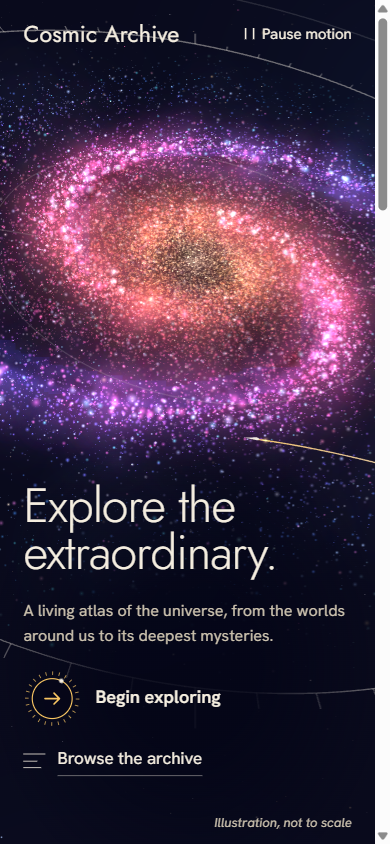
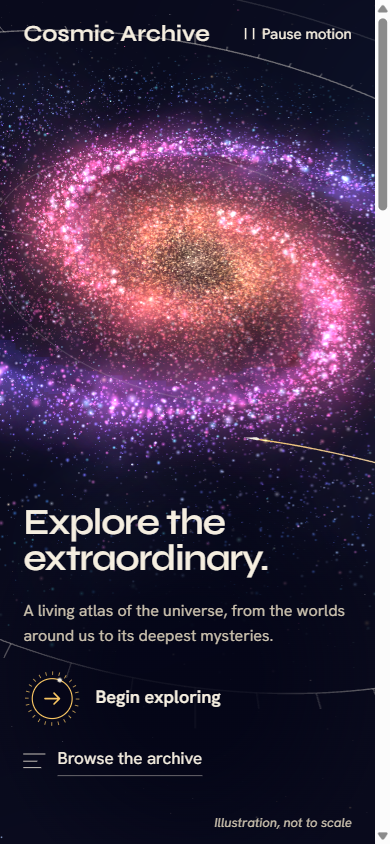
📝 docs: Lock the approved look and hand the build to Opus
- Make Syne the headline face in the prototype and re-shoot the stills
- Record the owner's approval and decisions D-026 to D-028
- Split the scene session in two and give the whole build to Opus
- Rewrite the Opus prompt as a standalone handover

Changed region(s): [[0.0615, 0.5545, 0.7077, 0.7085], [0.0615, 0.0308, 0.5538, 0.0616]]

diff --git a/prototype/look.html b/prototype/look.html
@@ -8,12 +8,12 @@
   Throwaway look-and-feel check for the Living Atlas identity (docs/DESIGN_SPEC.md).
   Not production code: plain three from a CDN, fonts from Google Fonts, 1px GL lines.
   URL switches:  ?stage=0|1|2  fix the view (hero, chart, zoom out)   ?t=12  fix the time
-                 ?font=jost|syne|bricolage  try a headline face (jost is the default)
+                 ?font=syne|jost|bricolage  try a headline face (syne is the owner's pick and the default)
 -->
 <link rel="preconnect" href="https://fonts.googleapis.com">
 <link rel="preconnect" href="https://fonts.gstatic.com" crossorigin>
 <link href="https://fonts.googleapis.com/css2?family=Bricolage+Grotesque:opsz,wght@12..96,400..600&family=Hanken+Grotesk:ital,wght@0,400;0,500;0,600;1,400&family=Jost:wght@300;400;500&family=Syne:wght@500;600&display=swap" rel="stylesheet">
-<script>document.documentElement.dataset.font = new URLSearchParams(location.search).get('font') || 'jost';</script>
+<script>document.documentElement.dataset.font = new URLSearchParams(location.search).get('font') || 'syne';</script>
 <script type="importmap">{"imports":{"three":"https://cdn.jsdelivr.net/npm/three@0.187.0/build/three.module.js"}}</script>
 <style>
   :root {
@@ -21,14 +21,14 @@
     --ink: #f4eee2;
     --ink-2: #cdc6b8;
     --beacon: #f5c56b;
-    /* Display: a light geometric sans. Its round letters are drawn with the same compass as the chart's rings. */
-    --display: "Jost", "Century Gothic", system-ui, sans-serif;
-    --display-w: 300; --display-track: -0.018em; --h1: clamp(3rem, 7vw, 6.75rem); --mark-w: 400;
+    /* Display: Syne, a wide sans with some character (the owner's pick). The others are kept only for comparison. */
+    --display: "Syne", system-ui, sans-serif;
+    --display-w: 600; --display-track: -0.03em; --h1: clamp(2.3rem, 6vw, 5.75rem); --h2: clamp(1.75rem, 3.5vw, 3.1rem); --mark-w: 600;
     --text: "Hanken Grotesk", system-ui, sans-serif;
     --gutter: clamp(20px, 6vw, 96px);
   }
-  [data-font="syne"] { --display: "Syne", system-ui, sans-serif; --display-w: 600; --display-track: -0.03em; --h1: clamp(2.3rem, 6vw, 5.75rem); --mark-w: 600; }
-  [data-font="bricolage"] { --display: "Bricolage Grotesque", system-ui, sans-serif; --display-w: 500; --display-track: -0.03em; --h1: clamp(2.7rem, 6.6vw, 6.25rem); --mark-w: 500; }
+  [data-font="jost"] { --display: "Jost", "Century Gothic", system-ui, sans-serif; --display-w: 300; --display-track: -0.018em; --h1: clamp(3rem, 7vw, 6.75rem); --h2: clamp(2rem, 4.2vw, 3.75rem); --mark-w: 400; }
+  [data-font="bricolage"] { --display: "Bricolage Grotesque", system-ui, sans-serif; --display-w: 500; --display-track: -0.03em; --h1: clamp(2.7rem, 6.6vw, 6.25rem); --h2: clamp(2rem, 4vw, 3.5rem); --mark-w: 500; }
   @supports (color: oklch(0 0 0)) {
     :root {
       --space: oklch(0.13 0.04 275);
@@ -72,7 +72,7 @@
   }
   h1, h2 { font-family: var(--display); font-weight: var(--display-w); letter-spacing: var(--display-track); margin: 0; text-wrap: balance; }
   h1 { font-size: var(--h1); line-height: 0.98; }
-  h2 { font-size: clamp(2rem, 4.2vw, 3.75rem); line-height: 1.05; }
+  h2 { font-size: var(--h2); line-height: 1.08; }
   .copy p { margin: 22px 0 0; max-width: 31rem; color: var(--ink-2); font-size: clamp(1rem, 1.25vw, 1.2rem); }
 
   .s0 { bottom: clamp(56px, 11vh, 120px); max-width: 44rem; }

diff --git a/OPUS_NEXT_WEEK_PROMPT.md b/OPUS_NEXT_WEEK_PROMPT.md
@@ -1,12 +1,12 @@
 # Cosmic Archive: prompt for the next Opus session
 
-**Last updated:** 2026-11-11, after the second look round in session F1 (sans headline, redrawn hero actions, bigger and fuller galaxy; waiting for the owner to approve the look and pick the headline face). Fable keeps this current after every commit. If you are reading this, Fable's access has ended or the owner chose to hand over; start from "Your session" below.
+**Last updated:** 2026-11-11, at the end of Fable's work. The plan and the look are finished and approved by the owner. No app code exists yet. Keep this file current: after every commit, update "What exists" and rewrite "Your session" for the next roadmap item.
 
 You are Claude Opus 5.5, continuing Cosmic Archive alone. You have no memory of earlier sessions. Everything you need is in this file and the docs it names.
 
 ## What this is
 
-A living atlas of the universe: a Next.js site with real-time WebGL scenes behind server-rendered science pages. The identity is "cosmos plus ink": luminous stylised scenery with a map-maker's hairline linework over it. Fable (a stronger model) re-planned the project with the owner on 2026-11-11 and is building the hard core. You build on it without redesigning it.
+A living atlas of the universe: a Next.js site with real-time WebGL scenes behind server-rendered science pages. The identity is "cosmos plus ink": luminous stylised scenery with a map-maker's hairline linework over it. Fable (a stronger model) re-planned the project with the owner, designed the look with them, and stopped there at the owner's request. You build the app. You do not redesign it.
 
 ## What exists
 
@@ -14,72 +14,75 @@ A living atlas of the universe: a Next.js site with real-time WebGL scenes behin
 |---|---|
 | `15e3478` | Snapshot of the original ChatGPT planning docs (history only; superseded) |
 | `825ef56` | F0 re-plan: rewritten docs in `docs/`, `CLAUDE.md`, `README.md`, this file |
-| `8dae442` | F1: `prototype/look.html` and six stills in `prototype/shots/` |
-| latest (`git log -1`) | F1 second round: owner's notes applied to the prototype; `prototype/fonts.html` compares headline faces |
+| `8dae442` | F1: first look prototype |
+| `0c6ac42` | F1 second round from the owner's notes: sans headline, redrawn hero actions, bigger and fuller galaxy |
+| latest (`git log -1`) | Owner approved the look and picked Syne; stills re-shot; docs and this file brought up to date |
 
-`prototype/look.html` is a single file (plain three from a CDN) showing the three stages of the homepage scene: hero (`?stage=0`), chart (`?stage=1`), zoomed-out cosmic web (`?stage=2`). `?t=12` fixes the time. Without switches, scrolling drives the zoom. Open it by double-clicking; it needs internet for three and the fonts.
+`prototype/look.html` is the approved look. It is one file (plain three from a CDN) showing the three stages of the homepage scene: hero (`?stage=0`), chart (`?stage=1`), zoomed-out cosmic web (`?stage=2`). `?t=12` fixes the time. Without switches, scrolling drives the zoom. It needs internet for three and the fonts. The six stills in `prototype/shots/` (`desktop-stage0..2.png`, `phone-stage0..2.png`) are the visual bar. `prototype/fonts.html` and `font-options.png` are a record of the font choice; ignore them.
 
-Not built yet: the app scaffold, the scene system, the atlas in the app, any page.
-
-**Check `docs/PHASE_CHECKLIST.md` for "Owner approved the look".** If it is not ticked, ask the owner before building anything; the look is theirs to approve.
+Not built: the app scaffold, the scene system, the atlas in the app, any page. Nothing has been pushed or deployed.
 
 ## Read first, in this order
 
 1. `CLAUDE.md`
 2. `docs/PHASE_CHECKLIST.md`
-3. `docs/DESIGN_SPEC.md` (section 10 lists what the prototype settled and the shortcuts production must replace)
+3. `docs/DESIGN_SPEC.md` (section 2 bans, section 7 homepage, section 10 what the prototype settled and what production must replace, section 11 screenshot checklist)
 4. `docs/ARCHITECTURE.md`
 5. `docs/PROJECT_BLUEPRINT.md`
 6. `docs/DECISIONS.md` (skim; read fully before changing anything that looks deliberate)
-7. `prototype/look.html` and the stills in `prototype/shots/`. Look at the stills; they are the visual bar.
+7. `prototype/look.html` and the six stills. Open the stills and look at them before writing any UI.
 
 ## Rules you must not change
 
-1. **The visual language.** Cosmos plus ink, the tiny vessel and its trail, line style as evidence, a sans display face (Jost unless `DECISIONS.md` D-026 records that the owner picked Syne) with Hanken Grotesk, no serif, one UI accent. The bans in `DESIGN_SPEC.md` section 2 are absolute. Match the prototype's palette, type and line weights.
-2. **The architecture boundaries.** Only `src/scene/` imports three. Pages use `<SceneSlot>`. One persistent canvas. Content holds facts; components hold layout.
-3. **The budgets** in `ARCHITECTURE.md` section 3: tiers, pixel budgets, particle counts, bundle sizes, the governor thresholds.
-4. **The science process.** No fact from memory. Fetch the source, wrap the claim, record the checked date. Own illustrations only; link to real observations, never embed them.
-5. **Scope.** The v1 table in the blueprint. One session from the roadmap, then stop and report.
+1. **The visual language.** Cosmos plus ink, the tiny vessel and its trail, line style as evidence, Syne for display with Hanken Grotesk for text, no serif, one UI accent (`--beacon`). The bans in `DESIGN_SPEC.md` section 2 are absolute. Match the prototype's palette, type, line weights and compositions.
+2. **The galaxy is big and full.** The owner asked for this directly. In the hero it overflows the frame. Do not pull the camera back, thin the layers or simplify the scene to save effort; port the prototype's generation code and camera keys as they are (`ARCHITECTURE.md` section 4).
+3. **The architecture boundaries.** Only `src/scene/` imports three. Pages use `<SceneSlot>`. One persistent canvas. Content holds facts; components hold layout.
+4. **The budgets** in `ARCHITECTURE.md` section 3: tiers, pixel budgets, particle counts, bundle sizes, the governor thresholds.
+5. **The science process.** No fact from memory. Fetch the source, wrap the claim, record the checked date. Own illustrations only; link to real observations, never embed them.
+6. **Scope.** The v1 table in the blueprint. One session from the roadmap, then stop and report.
 
 If one of these seems wrong, do not work around it. Say so in your report and leave it for the owner.
 
-## Your session: F2, the scaffold (only after the look is approved)
+## Your session: F2, the scaffold
 
 **Scope**
 
-- Create the Next.js 16 app in this folder (App Router, TypeScript strict, `src/` directory, `@/*` alias, npm, ESLint flat config, no Tailwind). Check the current Next.js docs through context7 first; do not rely on remembered flags. Keep the existing files (`docs/`, `prototype/`, `CLAUDE.md`, `README.md`, this file).
+- Create the Next.js 16 app in this folder (App Router, TypeScript strict, `src/` directory, `@/*` alias, npm, ESLint flat config, no Tailwind). Check the current Next.js docs through context7 first; do not rely on remembered flags. Keep the existing files (`docs/`, `prototype/`, `CLAUDE.md`, `README.md`, this file). If the generator refuses a non-empty folder, generate into a temporary folder and move the files in.
 - Folder layout exactly as `ARCHITECTURE.md` section 1. Create `src/scene/` with only a README stub saying what goes there; do not install three yet.
-- `src/styles/tokens.css` with the tokens from `DESIGN_SPEC.md` sections 3 and 4, values copied from the `:root` block of `prototype/look.html`.
-- Fonts through `next/font/google`: the display face from D-026 (Jost 300 and 400, or Syne 600 if the owner picked it) and Hanken Grotesk (400, 500, 600, and 400 italic).
-- The two hero actions exactly as in the prototype (`.go` and `.index` in `prototype/look.html`; described in `DESIGN_SPEC.md` section 7.2).
-- Root layout with the header (wordmark, nav showing only routes that exist, a Pause motion button that toggles a `data-motion` attribute on `<html>` and persists it) and a minimal footer. Copy the header's look from the prototype.
-- `/` renders the hero copy over a plain `--space` background (headline, supporting line, the two actions). No scene yet. "Begin exploring" and "Browse the archive" must not be dead links: render them only when their routes exist, or point both at an `/about` stub that says the atlas is being built.
-- Scripts: `check` (`tsc --noEmit && eslint .`), `shots` (a Playwright script that starts the built app, captures `/` at 1440x900, 390x844 and 1440x900 with reduced motion into `screenshots/`), `posters` (stub that exits 0 with a message for now).
-- Update `CLAUDE.md`: replace `Verify: none` with `Verify: npm run check` and add `Verify-full: npm run build && npm run shots`. Update the README's "Running it" section.
+- `src/styles/tokens.css`: colour tokens copied from the `@supports` block of `prototype/look.html` (OKLCH), plus the type scale, spacing and motion durations from `DESIGN_SPEC.md` sections 3, 4 and 6.
+- Fonts through `next/font/google`: Syne (weight 600) and Hanken Grotesk (400, 500, 600, and 400 italic).
+- Root layout with the header (wordmark, nav showing only routes that exist, a Pause motion button that sets `data-motion="paused"` or `"on"` on `<html>` and persists it in `localStorage`; reduced motion defaults it to paused) and a minimal footer. Copy the header's look from the prototype.
+- `/` renders the hero copy over a plain `--space` background: headline, supporting line, and the two actions built exactly as `.go` and `.index` in the prototype (the ticked-ring button with its circling dot, and the index link; `DESIGN_SPEC.md` section 7.2). No scene yet. The actions must not be dead links: point both at an `/about` stub (one paragraph saying the atlas is being built) until their routes exist.
+- Scripts: `check` (`tsc --noEmit && eslint .`), `shots` (a Playwright script that starts the built app and captures `/` at 1440x900, 390x844, and 1440x900 with reduced motion, into `screenshots/`), `posters` (a stub that prints a message and exits 0).
+- Update `CLAUDE.md`: replace `Verify: none` with `Verify: npm run check`, add `Verify-full: npm run build && npm run shots`, and delete the sentence about there being no scaffold. Update the README's "Running it" section.
 
 **Acceptance**
 
 - `npm run check` passes. `npm run build` passes. `npm run shots` writes three screenshots.
 - First-load JS for `/` is under 130 KB gzip (read it from the build output and report the number).
-- The header and hero copy match the prototype's type, colour and spacing at both widths.
+- The header, hero copy and both actions match `prototype/shots/desktop-stage0.png` and `phone-stage0.png` in type, colour, size and position. The headline does not overflow at 390 px.
+- With reduced motion, the dot on the ring button does not move. Hovering the ring button fills the ring gold; both actions show a visible focus ring from the keyboard.
 - No dependency beyond next, react, react-dom, typescript, eslint and its Next config, the type packages, and playwright as a dev dependency.
 
-**Verify:** run the three commands; look at the three screenshots beside `prototype/shots/desktop-stage0.png` and `phone-stage0.png`; run the self-review below.
+**Verify:** run the three commands; open the three screenshots beside the two prototype stills and compare; run the self-review below.
 
-**Stop point:** commit (gitmoji style, no push), tick F2 in the checklist, report. Do not start the scene system.
+**Stop point:** commit (gitmoji style, no push), tick F2 in the checklist, rewrite "Your session" in this file for F3a, report. Do not start the scene system.
 
-## Later sessions (one each; details in `docs/PHASED_ROADMAP.md`)
+## Later sessions (one each; acceptance in `docs/PHASED_ROADMAP.md`)
 
-F3 scene system and atlas (port the prototype's shaders into `src/scene/`, replacing the shortcuts listed in `DESIGN_SPEC.md` section 10). F4 content model and Black Holes page. O1 homepage lower half, About, Archive. O2 Galaxies. O3 Nebulae. O4 Quasars. O5 Journey: A star's life. O6 Explore polish. O7 release prep. O8 owner review, then deploy.
+- **F3a Scene system and the hero galaxy.** The hardest session; give it a whole one. Build `SceneHost`, `SceneSlot`, registry, store, tiers, governor, poster and still fallbacks, then port the prototype's galaxy, ink, vessel and trail at the hero view. Install three and React Three Fiber here, checking their current docs first. Replace the prototype shortcuts listed in `DESIGN_SPEC.md` section 10 that touch the hero (constant-width lines, instanced quads for large sprites).
+- **F3b Atlas chart, zoom out, Explore.** The cosmic web, the scroll-driven zoom through all three stages, beacons as real links with collision-safe labels, the map margin with the evidence legend, the list view, `/explore`.
+- **F4 Content model and Black Holes page.** MDX pipeline, content check, the page framework, the black-hole scene, sourced copy.
+- **O1** homepage lower half, About, Archive. **O2** Galaxies. **O3** Nebulae. **O4** Quasars. **O5** Journey: A star's life. **O6** Explore polish. **O7** release prep. **O8** owner review, then deploy only when the owner says so.
 
 ## Self-review before you report
 
-1. `DESIGN_SPEC.md` section 11, all nine questions, on every screenshot.
+1. `DESIGN_SPEC.md` section 11, all nine questions, on every screenshot. Put each screenshot beside its prototype still: is the galaxy as large, as full and as colourful? Is the ink as visible?
 2. Did anything outside `src/scene/` import three?
 3. Does the page work with WebGL off and with reduced motion on? Did you test it or assume it?
 4. Is every fact on a content page tied to a source you fetched this session?
 5. Did you stay inside one roadmap session? List anything you were tempted to add and did not.
-6. Are `PHASE_CHECKLIST.md` and `DECISIONS.md` updated, and is the work committed (gitmoji style, no push)?
+6. Are `PHASE_CHECKLIST.md`, `DECISIONS.md` and this file updated, and is the work committed (gitmoji style, no push)?
 
 ## Report format
 

diff --git a/docs/ARCHITECTURE.md b/docs/ARCHITECTURE.md
@@ -35,12 +35,12 @@ src/
 
 | Route | Scene | Status |
 |---|---|---|
-| `/` | `atlas`, scroll-driven | this week |
-| `/explore` | `atlas`, free control | this week |
-| `/subjects/[slug]` | per subject (`black-hole` first) | this week: `black-holes` |
-| `/archive` | none | Opus |
-| `/journeys/[slug]` | none in v1 | Opus |
-| `/about` | none | Opus |
+| `/` | `atlas`, scroll-driven | F2 (copy), F3a (hero scene), F3b (all stages) |
+| `/explore` | `atlas`, free control | F3b |
+| `/subjects/[slug]` | per subject (`black-hole` first) | F4: `black-holes` |
+| `/archive` | none | O1 |
+| `/journeys/[slug]` | none in v1 | O5 |
+| `/about` | none | O1 (a one-paragraph stub in F2) |
 
 All routes are static (`generateStaticParams` for dynamic segments). No server runtime, no API routes.
 
@@ -75,9 +75,11 @@ Scene time is a value passed in, never read from a clock inside a scene. That gi
 |---|---|---|---|---|
 | `static` | no WebGL2, `Save-Data`, or the governor gave up | poster only | 0 | n/a |
 | `still` | `prefers-reduced-motion` or motion paused | one frame, no loop | as the tier below | as below |
-| `low` | touch and small screen, or 4 cores or fewer, or 4 GB or less | 1.2 MP | 40k / 15k | additive sprites only |
-| `medium` | default | 2.3 MP | 90k / 35k | half-resolution bloom |
-| `high` | only after measured headroom on `medium` | 4 MP | 160k / 60k | half-resolution bloom |
+| `low` | touch and small screen, or 4 cores or fewer, or 4 GB or less | 1.2 MP | 40k / 15k | about 2,500 soft sprites |
+| `medium` | default | 2.3 MP | 90k / 35k | about 4,000 soft sprites |
+| `high` | only after measured headroom on `medium` | 4 MP | 160k / 60k | about 6,000 soft sprites |
+
+Glow is additive soft sprites (body, haze, dust, core, web glow); the prototype showed that no bloom pass is needed, so there is none. Large sprites cost fill rate, not vertices: if the governor needs a third step, halve the sprite count. The prototype was only ever run at the `high` counts on desktop and about a third of that on a phone; `medium` and `low` are untested and may need brighter points to look as full (the prototype raises point brightness when the count drops).
 
 The pixel budget sets the canvas resolution (`dpr = sqrt(budget / cssPixels)`, capped at the device ratio), so a large monitor and a phone are held to the same cost.
 
@@ -107,7 +109,9 @@ Targets: 60 fps on `medium` on an integrated-GPU laptop; 30 fps floor on `low` o
 
 ## 4. Atlas scene *(planned)*
 
-- **Levels.** `levels[]`, each with its own particle system and scale. Level 1: a spiral galaxy (points with a custom shader: warm core, coloured arms, dust lanes, differential rotation in the vertex shader). Level 2: the cosmic web (points along noise filaments; Level 1 collapses into one of them).
+- **Port, do not reinvent.** `prototype/look.html` is the approved look and its script is the reference implementation. Carry over as they are: the seeded random generator, the palette, `discColor`, `taper`, every `build*` function, the constants (`SPIN`, `WIND`, `R0`, `ARMS`, `GAL_R`, `RING`, `OUTER`, `SATELLITE`), the base strengths in `A`, the camera keys (`KEYS_DESK`, `KEYS_PHONE`) with their log-distance interpolation and lens shift, the fade ranges in `frame()`, and the trail spiral in `layoutVessel`. Change only what `DESIGN_SPEC.md` section 10 lists under "left open", and scale counts to the tier.
+- **Layers of the galaxy, in draw order:** background wash and stars; body glow, arm haze, halo, companion; the disc points; dust (sprites that darken what is behind them: blend source zero, destination one-minus-source-colour); core glow; ink lines; trail; vessel. Everything is additive except dust, so only dust depends on order.
+- **Levels.** `levels[]`, each with its own particle system and scale. Level 1: the spiral galaxy above, turning as a rigid pattern in the vertex shader. Level 2: the cosmic web (points and glow sprites along threads between near-neighbour nodes; the home galaxy must sit on a thread).
 - **One zoom scalar.** `zoom` in [0, 2]: 0 hero angle, 1 chart angle on Level 1, 2 Level 2. It drives the camera rig and the cross-fade between levels. On `/` it comes from scroll position through the store; on `/explore` from wheel, pinch, drag and keys. Adding a level means adding an entry and extending the range.
 - **Linework.** Rings, ticks and dashed lines drawn as screen-space quads so they stay one device pixel wide. Dash pattern is a uniform taken from the evidence status.
 - **Vessel and trail.** A tiny mesh built in code and a ribbon whose alpha fades along its length. On the hero the trail's far end joins the outer ring.

diff --git a/docs/PHASED_ROADMAP.md b/docs/PHASED_ROADMAP.md
@@ -1,21 +1,21 @@
 # Cosmic Archive: Roadmap
 
-**Status:** v2, 2026-11-11. Re-ordered: the scenes come first. Each numbered item is sized for one working session and ends with a commit. Progress is tracked in `PHASE_CHECKLIST.md`.
+**Status:** v3, 2026-11-11. Re-ordered: the scenes come first. Opus builds from F2 on. Each numbered item is sized for one working session and ends with a commit. Progress is tracked in `PHASE_CHECKLIST.md`.
 
-## Fable week (ends Sun Nov 16 2026)
+## Foundation
+
+F0 and F1 were done by Fable and are finished. The owner then moved Fable to another project (D-028), so Opus builds the rest, starting at F2. `OPUS_NEXT_WEEK_PROMPT.md` always describes the next session in detail; update it at every commit.
 
 | # | Session | Outcome | Acceptance |
 |---|---|---|---|
-| F0 | Re-plan | These docs, the decisions log, a short `CLAUDE.md`, first draft of the Opus prompt | Owner approved the plan |
-| F1 | Look prototype | `prototype/look.html`: hero and atlas look, type, palette | Owner approves the screenshots |
-| F2 | Scaffold | Next 16 app, tokens, fonts, header and footer shell, `check` / `shots` / `posters` scripts | `npm run check` and `npm run build` pass |
-| F3 | Scene system + atlas | `SceneHost`, `SceneSlot`, tiers, governor, fallbacks, pause; atlas Level 1 and 2, zoom, linework, vessel, beacon links; `/` hero and `/explore` | Fallback tests in `ARCHITECTURE.md` section 8 pass; screenshots match the prototype |
+| F0 | Re-plan (done) | These docs, the decisions log, a short `CLAUDE.md`, the Opus prompt | Owner approved the plan |
+| F1 | Look prototype (done) | `prototype/look.html`: hero and atlas look, type, palette | Owner approved the look, with Syne as the headline face |
+| F2 | Scaffold | Next 16 app, tokens, fonts, header and footer shell, hero copy and actions, `check` / `shots` / `posters` scripts | `npm run check` and `npm run build` pass; hero copy matches the prototype |
+| F3a | Scene system + the hero galaxy | `SceneHost`, `SceneSlot`, registry, store, tiers, governor, fallbacks, pause; atlas Level 1 at the hero view with linework, vessel and trail; `/` hero live | Fallback tests in `ARCHITECTURE.md` section 8 pass; hero screenshots match `prototype/shots/` |
+| F3b | Atlas chart, zoom out, Explore | Atlas Level 2, the scroll-driven zoom through all three stages, beacon links, list view, the map margin; `/explore` with free control | Chart and zoom-out screenshots match the prototype; every beacon is a working link |
 | F4 | Content model + Black Holes | MDX pipeline, content check, the Black Holes page with its live scene and sourced copy | `npm run check` fails when a source is removed; owner reads the copy |
-| F5 | If budget remains | Lower homepage sections | As O1 below |
 
-If Fable time runs out, the unfinished item becomes Opus's first session. `OPUS_NEXT_WEEK_PROMPT.md` is updated at every commit so this is always safe.
-
-## Opus sessions (one per session, in order)
+## Later sessions (one per session, in order)
 
 | # | Session | Outcome | Acceptance |
 |---|---|---|---|

diff --git a/docs/DECISIONS.md b/docs/DECISIONS.md
@@ -36,5 +36,6 @@ Append rows; never rewrite history. A newer row overrides an older one and says 
 | D-023 | **The AI-generated reference images are not a reference** and were deleted at the owner's request. The look is defined by `prototype/look.html`. | The owner did not want the design swayed by them; they also contradicted the brief (large ship, glass HUD). | Treating them as the visual bar. |
 | D-024 | **Type and colour:** Fraunces for display, Hanken Grotesk for text and UI; deep indigo `--space`, warm white `--ink`, one UI accent `--beacon` (gold); scenery colours stay in the scenes. Locked when the prototype is approved. | A warm serif on indigo reads as an atlas, not a dashboard. One accent keeps the UI quiet so the scenery carries the colour. | A geometric or "futuristic" display face; several accent colours in the UI. |
 | D-025 | **Verify commands:** `npm run check` (fast, no build) and `npm run build && npm run shots` (full). | The stop hook runs the fast one; builds and screenshots are too slow for every turn. | A single slow verify command. |
-| D-026 | **Display face is a sans, not a serif** (changes the type half of D-024). Default Jost Light; Syne is the bolder alternative in the prototype (`?font=syne`). The owner picks; no serif anywhere, and map notes use Hanken Grotesk italic. | The owner read Fraunces as Times New Roman and disliked it. Jost's compass-drawn round letters echo the chart's rings and hairlines. | Fraunces; Bricolage Grotesque, Unbounded, Familjen Grotesk (compared in `prototype/fonts.html`). |
+| D-026 | **Display face is a sans, not a serif** (changes the type half of D-024). **Syne, weight 600.** Owner picked it over Jost Light. No serif anywhere; map notes use Hanken Grotesk italic. | The owner read Fraunces as Times New Roman and disliked it, and found Syne the better of the two sans options shown in the hero. | Fraunces; Jost Light (still viewable with `?font=jost`); Bricolage Grotesque, Unbounded, Familjen Grotesk (compared in `prototype/fonts.html`). |
 | D-027 | **The hero galaxy overflows the frame and is drawn full:** closer, higher camera; a soft glow under the whole disc; brighter stars between the arms; dark dust lanes; a halo of old stars; one small companion galaxy. The two hero actions are drawn in the chart's own language (a ticked ring with a circling vessel; an index mark). Owner asked for all three. | A galaxy that fills the screen makes the pull-back to the cosmic web land harder. Plain rectangle and underline actions looked generic beside the scene. | The first prototype's smaller, sparser galaxy and plain button. |
+| D-028 | **Fable's part ended after the look (F0 and F1), at the owner's request** (changes D-021). Opus 5.5 builds everything from the scaffold on, one roadmap session at a time. The scene system and atlas session is split in two (F3a, F3b) so each fits one Opus session. | The owner moved Fable's remaining usage to another project once the plan and the look were approved. | Fable building the scene system and the Black Holes page as first planned. |

diff --git a/docs/PHASE_CHECKLIST.md b/docs/PHASE_CHECKLIST.md
@@ -17,8 +17,10 @@ Tick an item only when it is implemented and verified. Sessions are defined in `
 - [x] `prototype/look.html` shows the hero, the chart and the zoom out (`?stage=0|1|2`, `?t=` fixes time; scroll drives the zoom without the switches).
 - [x] Headless WebGL screenshots work (1440x900, 390x844); six stills in `prototype/shots/`. No console errors.
 - [x] Second round from the owner's notes: sans headline face (Jost, with Syne as the alternative), redrawn hero actions, bigger and fuller galaxy. Stills re-shot; `font-options.png` and `desktop-stage0-syne.png` added.
-- [ ] Owner approved the look and picked the headline face.
-- [ ] Tokens in `DESIGN_SPEC.md` corrected to match.
+- [x] Owner approved the look and picked the headline face: Syne (2026-11-11). Stills re-shot in Syne.
+- [x] Tokens and type in `DESIGN_SPEC.md` corrected to match and locked.
+
+Fable's part ends here (D-028). Everything below is built by Opus.
 
 ## F2 Scaffold
 
@@ -28,17 +30,21 @@ Tick an item only when it is implemented and verified. Sessions are defined in `
 - [ ] `check`, `shots`, `posters` scripts.
 - [ ] `npm run check` and `npm run build` pass.
 
-## F3 Scene system + atlas
+## F3a Scene system + the hero galaxy
 
 - [ ] `SceneHost`, `SceneSlot`, registry, store.
 - [ ] Tiers and frame-time governor.
 - [ ] Poster-first loading; `still` and `static` fallbacks; Pause motion control.
-- [ ] Atlas Level 1 (galaxy), linework, vessel and trail.
+- [ ] Atlas Level 1 (galaxy) at the hero view, linework, vessel and trail.
+- [ ] Fallback tests pass (reduced motion, no WebGL, throttled CPU, no three on a no-scene route).
+- [ ] Hero screenshots pass the design checklist against `prototype/shots/`.
+
+## F3b Atlas chart, zoom out and Explore
+
 - [ ] Atlas Level 2 (cosmic web) and the zoom between levels.
 - [ ] Beacons are real links; list view.
-- [ ] `/` hero wired to scroll; `/explore` with free control.
-- [ ] Fallback tests pass (reduced motion, no WebGL, throttled CPU, no three on a no-scene route).
-- [ ] Screenshots pass the design checklist.
+- [ ] `/` wired to scroll through all three stages; `/explore` with free control.
+- [ ] Chart and zoom-out screenshots pass the design checklist.
 
 ## F4 Content model + Black Holes
 

diff --git a/docs/DESIGN_SPEC.md b/docs/DESIGN_SPEC.md
@@ -1,6 +1,6 @@
 # Cosmic Archive: Design Spec
 
-**Status:** v2, 2026-11-11. Site-wide visual language first, homepage second. Replaces the ChatGPT homepage spec v1.1.
+**Status:** v2, 2026-11-11. The look is approved by the owner. Site-wide visual language first, homepage second. Replaces the ChatGPT homepage spec v1.1.
 **Reference for the look:** `prototype/look.html` and the screenshots in `prototype/shots/`. When this document and the approved prototype disagree, the prototype wins and this document gets corrected.
 
 ## 1. The idea: a Living Atlas
@@ -31,7 +31,7 @@ These make the site generic or break the idea. Do not introduce them.
 
 ## 3. Colour
 
-Tokens live in `src/styles/tokens.css` in OKLCH. Values below are the starting set; the prototype locks them.
+Tokens live in `src/styles/tokens.css` in OKLCH. The owner approved the prototype on 2026-11-11, so these values are locked; copy them from the `:root` block of `prototype/look.html`.
 
 | Token | Value | Use |
 |---|---|---|
@@ -52,11 +52,11 @@ Rules:
 
 | Role | Face | Notes |
 |---|---|---|
-| Display | Jost, weight 300 (owner may pick Syne 600 instead; see D-026) | Headlines, subject titles, the wordmark (weight 400). No serif anywhere on the site |
+| Display | Syne, weight 600, letter-spacing -0.03em (owner's pick, D-026) | Headlines, subject titles, the wordmark. No serif anywhere on the site |
 | Text and UI | Hanken Grotesk | Body, navigation, buttons. Its italic is used for map notes and object names |
 | Map labels | Hanken Grotesk, uppercase, 11 to 12 px, letter-spacing 0.14em | Only on the chart, attached to a line or beacon. Never as a headline eyebrow |
 
-Scale: 1.25 ratio from a 17 px base; hero headline `clamp(3rem, 7vw, 6.75rem)` in Jost (Syne is wider, so `clamp(2.3rem, 6vw, 5.75rem)`). Body lines 45 to 75 characters. Paragraphs are short. The hero has one sentence under the headline.
+Scale: 1.25 ratio from a 17 px base; hero headline `clamp(2.3rem, 6vw, 5.75rem)`, section headline `clamp(1.75rem, 3.5vw, 3.1rem)`. Syne is wide, so check every headline at 390 px. Body lines 45 to 75 characters. Paragraphs are short. The hero has one sentence under the headline.
 
 ## 5. Linework
 
